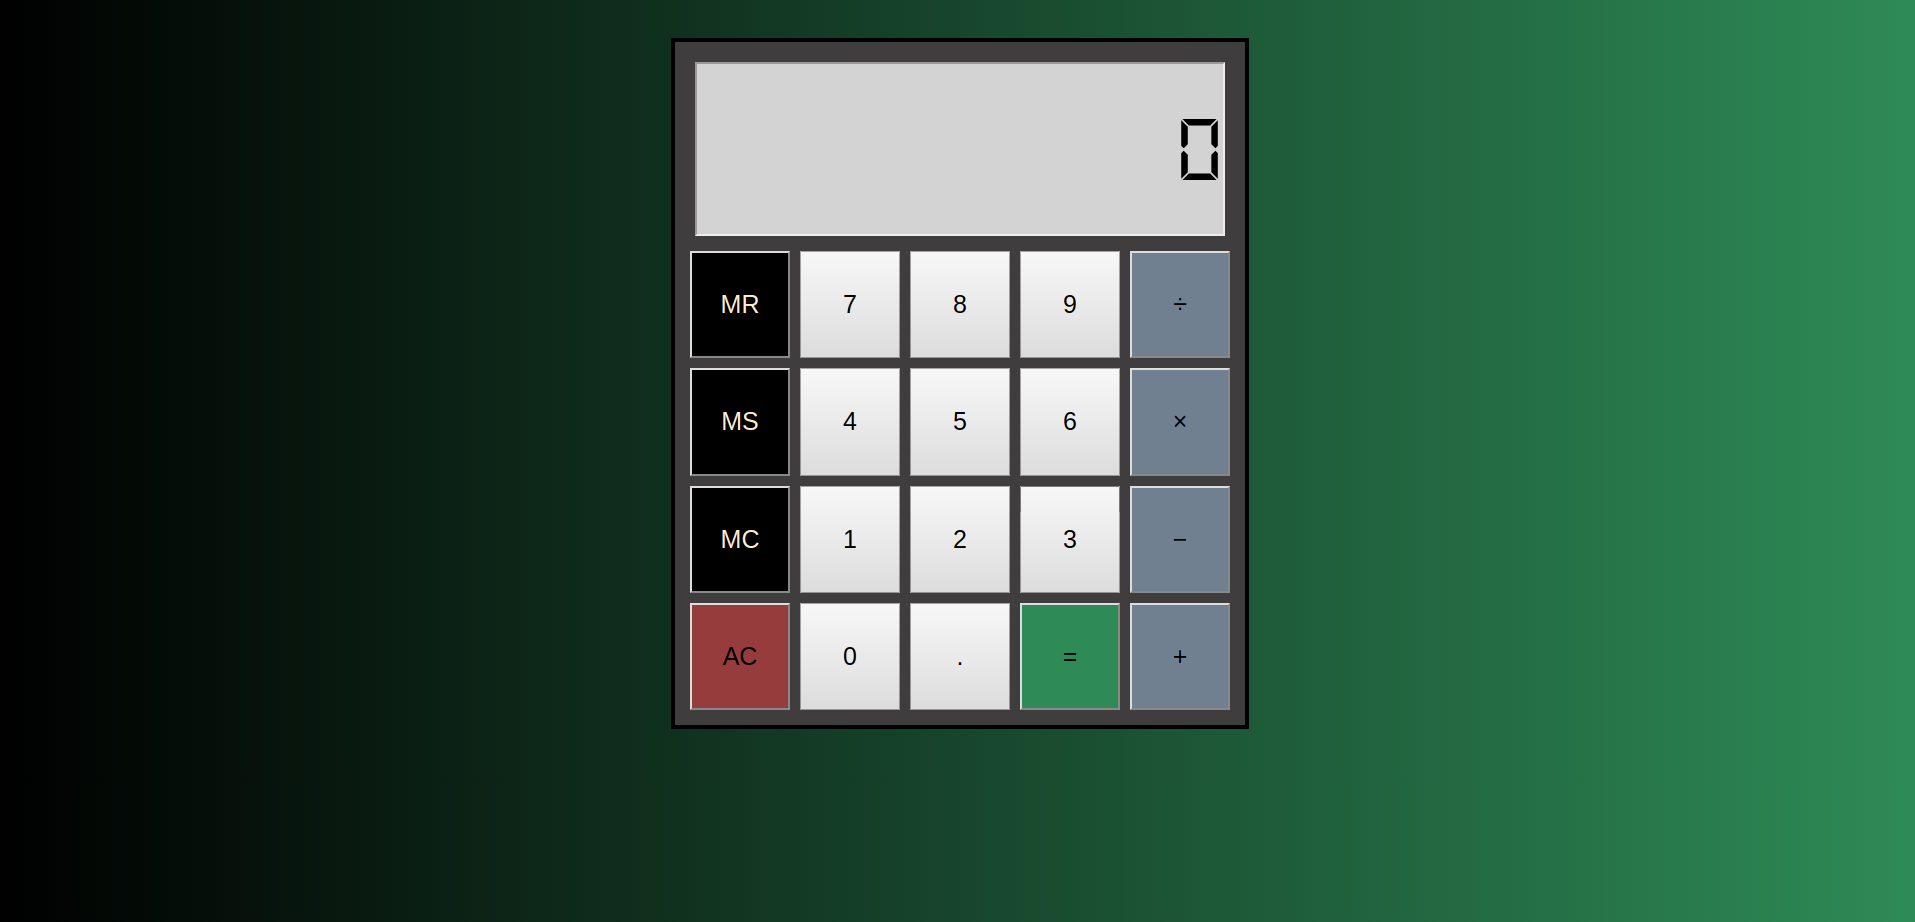
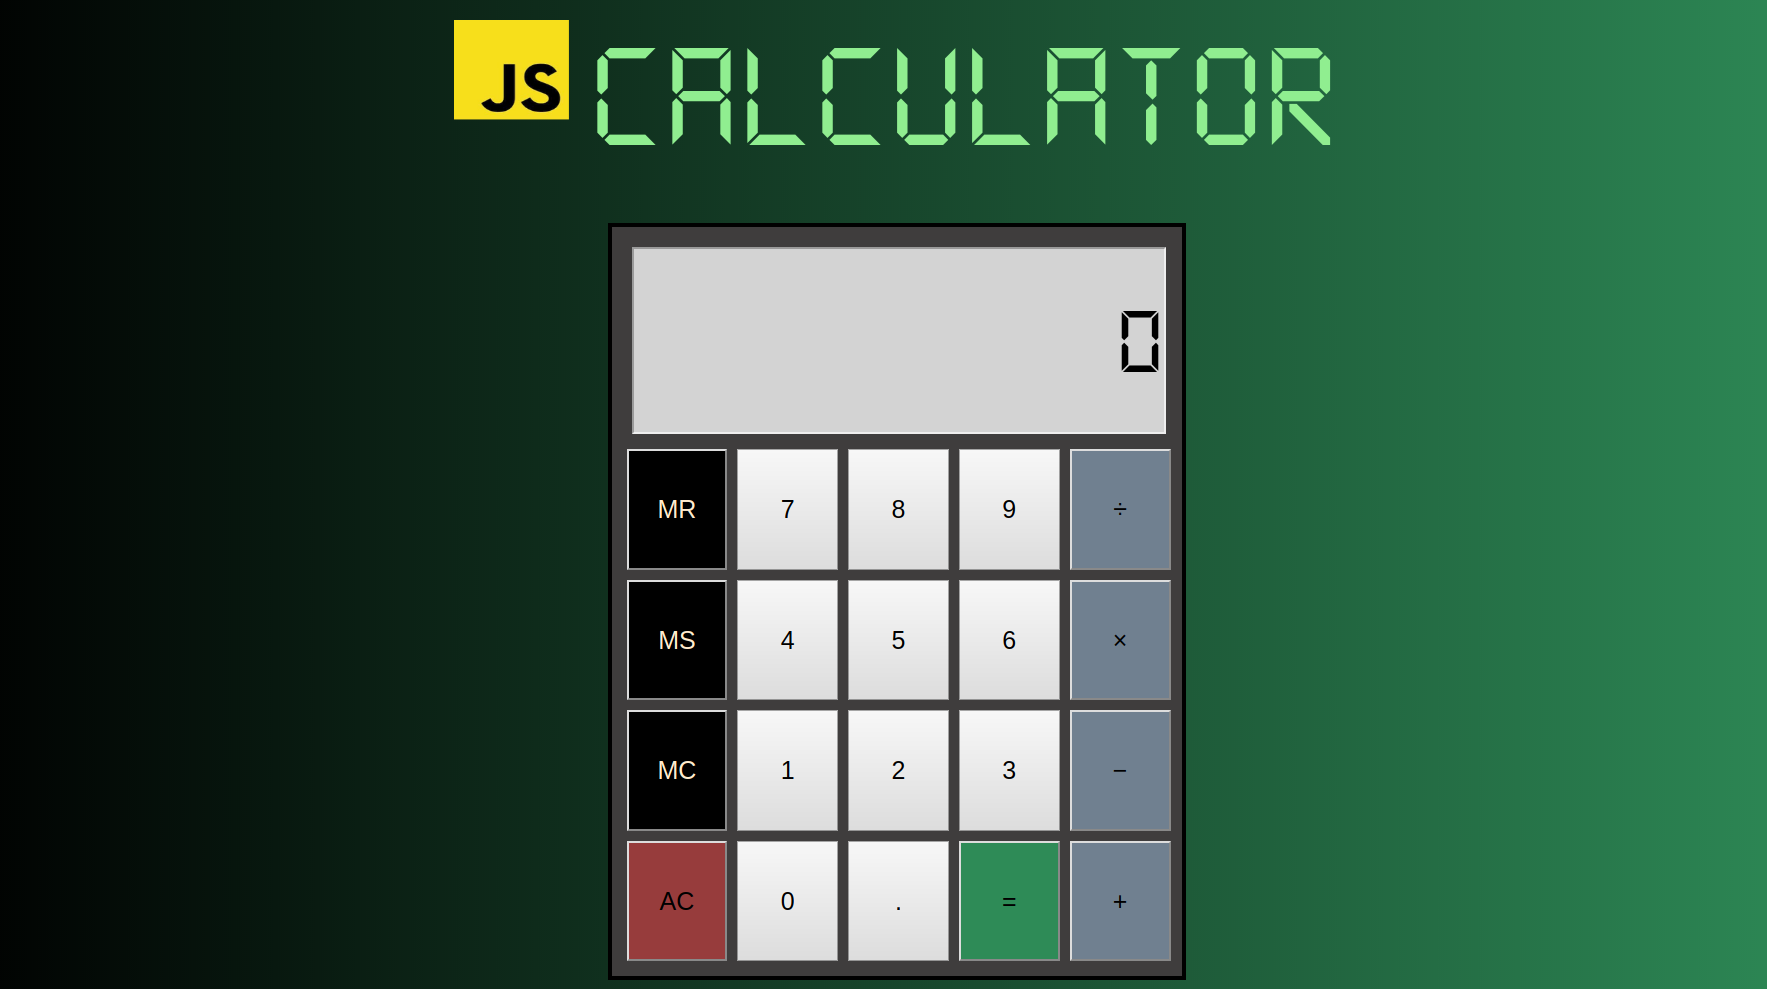
typeTitle

Changed region(s): [[0.249, 0.0, 0.7782, 1.0]]

diff --git a/app.js b/app.js
@@ -4,6 +4,8 @@ let firstOperand = null
 let secondOperand = null
 let operator = null
 
+window.addEventListener("load", typeTitle)
+
 // add listeners to number buttons
 const numberButtons = document.getElementsByClassName("number-button")
 for (const numberButton of numberButtons) {
@@ -62,6 +64,20 @@ document.getElementById("memory-recall-button").addEventListener("click", functi
 document.getElementById("memory-clear-button").addEventListener("click", function() {
     localStorage.setItem("calculator-memory", "")
   })
+
+function typeTitle() {
+  const title = 'calculator'
+  let i = 0
+  typeTitleNested()
+    function typeTitleNested() {
+      if (i < title.length) {
+        document.getElementById("title").innerText += title.charAt(i)
+        i++
+        setTimeout(typeTitleNested, 200)
+      }
+    }
+  
+}
 
 function setOperand(number) {
   if (operator == null) {

diff --git a/index.html b/index.html
@@ -9,7 +9,7 @@
     <title>JS Calculator</title>
   </head>
   <body>
-    <p>Calculator</p>
+    <p id="title"></p>
     <div id="calculator-grid">
       <input id="calculator-screen" value="0" />
       <button id="memory-recall-button">MR</button>

diff --git a/style.css b/style.css
@@ -16,7 +16,7 @@ p {
   background-image: url("images/javascript2.jpeg");
   background-repeat: no-repeat;
   background-size: 13% 65%;
-  margin: auto;
+  margin: 50px auto;
   width: 47%;
 }
 
